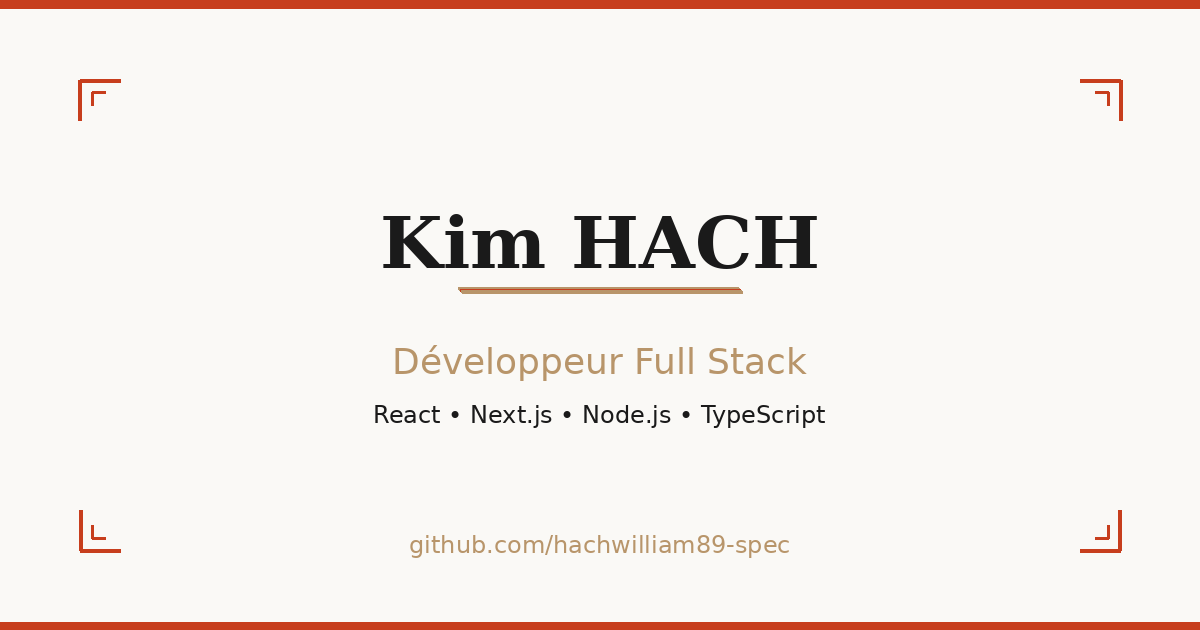
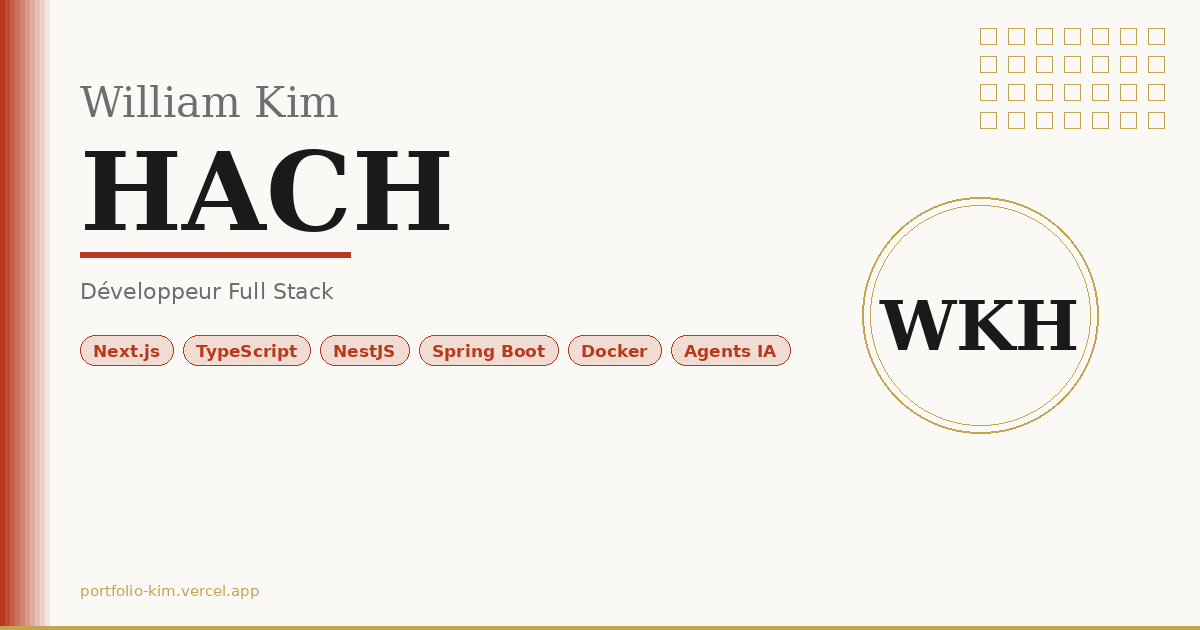
amelioration ui/ux

diff --git a/components/Hero.tsx b/components/Hero.tsx
@@ -1,6 +1,6 @@
 'use client';
 
-import { motion, Variants } from 'framer-motion';
+import { motion, Variants, useReducedMotion } from 'framer-motion';
 import { SiReact, SiNextdotjs, SiNodedotjs, SiTypescript, SiSpring, SiDocker } from 'react-icons/si';
 import { HiArrowDown } from 'react-icons/hi';
 import { useLanguage, fr, en } from '@/lib/i18n';
@@ -8,6 +8,7 @@ import { useLanguage, fr, en } from '@/lib/i18n';
 export default function Hero() {
     const { lang } = useLanguage();
     const t = lang === 'fr' ? fr : en;
+    const reduce = useReducedMotion();
 
     const scrollToProjects = () => {
         document.getElementById('projects')?.scrollIntoView({ behavior: 'smooth' });
@@ -133,16 +134,16 @@ export default function Hero() {
 
             {/* CONTENU PRINCIPAL */}
             <motion.div
-                initial={{ opacity: 0, y: 40 }}
+                initial={reduce ? false : { opacity: 0, y: 40 }}
                 animate={{ opacity: 1, y: 0 }}
-                transition={{ duration: 0.8, ease: 'easeOut', delay: 0.5 }}
+                transition={{ duration: 0.6, ease: 'easeOut', delay: 0.2 }}
                 className="relative z-10 text-center space-y-8 max-w-4xl"
             >
                 {/* Badge status */}
                 <motion.div
-                    initial={{ opacity: 0, scale: 0.95 }}
+                    initial={reduce ? false : { opacity: 0, scale: 0.95 }}
                     animate={{ opacity: 1, scale: 1 }}
-                    transition={{ duration: 0.6, delay: 1 }}
+                    transition={{ duration: 0.5, delay: 0.3 }}
                     className="inline-flex items-center gap-2 px-4 py-2 bg-vermillon/10 border border-vermillon/30 rounded-full"
                 >
                     <span className="relative flex h-2 w-2">
@@ -154,37 +155,50 @@ export default function Hero() {
                     </span>
                 </motion.div>
 
-                {/* Nom */}
+                {/* Nom — hiérarchie : "William Kim" petit / "HACH" grand */}
                 <motion.div
-                    initial={{ opacity: 0, y: 20 }}
+                    initial={reduce ? false : { opacity: 0, y: 20 }}
                     animate={{ opacity: 1, y: 0 }}
-                    transition={{ duration: 0.8, delay: 1.5 }}
-                    className="space-y-4"
+                    transition={{ duration: 0.6, delay: 0.5 }}
+                    className="space-y-1"
                 >
-                    <h1 className="font-display text-6xl md:text-8xl text-ink leading-none tracking-tight">
-                        {'William Kim HACH'.split('').map((char, i) => (
-                            <motion.span
-                                key={i}
-                                initial={{ opacity: 0, y: 30 }}
-                                animate={{ opacity: 1, y: 0 }}
-                                transition={{
-                                    duration: 0.4,
-                                    delay: 1.5 + i * 0.08,
-                                    ease: [0.25, 0.46, 0.45, 0.94]
-                                }}
-                                className="inline-block"
-                            >
-                                {char === ' ' ? '\u00A0' : char}
-                            </motion.span>
-                        ))}
+                    <h1 className="leading-none">
+                        {/* Prénoms */}
+                        <div className="font-display text-2xl md:text-4xl text-ink/50 font-normal tracking-[0.15em] mb-1">
+                            {reduce ? 'William Kim' : 'William Kim'.split('').map((char, i) => (
+                                <motion.span
+                                    key={i}
+                                    initial={{ opacity: 0, y: 20 }}
+                                    animate={{ opacity: 1, y: 0 }}
+                                    transition={{ duration: 0.3, delay: 0.6 + i * 0.04, ease: [0.25, 0.46, 0.45, 0.94] }}
+                                    className="inline-block"
+                                >
+                                    {char === ' ' ? ' ' : char}
+                                </motion.span>
+                            ))}
+                        </div>
+                        {/* Nom de famille */}
+                        <div className="font-display text-7xl md:text-9xl text-ink font-bold leading-none tracking-tight">
+                            {reduce ? 'HACH' : 'HACH'.split('').map((char, i) => (
+                                <motion.span
+                                    key={i}
+                                    initial={{ opacity: 0, y: 30 }}
+                                    animate={{ opacity: 1, y: 0 }}
+                                    transition={{ duration: 0.4, delay: 1.1 + i * 0.06, ease: [0.25, 0.46, 0.45, 0.94] }}
+                                    className="inline-block"
+                                >
+                                    {char}
+                                </motion.span>
+                            ))}
+                        </div>
                     </h1>
 
-                    <div className="relative inline-block">
+                    <div className="relative inline-block pt-2">
                         <motion.p
                             className="font-chinese text-3xl md:text-4xl text-ink/70 tracking-[0.2em]"
-                            initial={{ opacity: 0, scale: 0.9 }}
+                            initial={reduce ? false : { opacity: 0, scale: 0.9 }}
                             animate={{ opacity: 1, scale: 1 }}
-                            transition={{ duration: 0.8, delay: 2.5 }}
+                            transition={{ duration: 0.6, delay: 1.5 }}
                         >
                             金恩
                         </motion.p>
@@ -202,8 +216,8 @@ export default function Hero() {
                                 initial={{ pathLength: 0, opacity: 0 }}
                                 animate={{ pathLength: 1, opacity: 0.7 }}
                                 transition={{
-                                    pathLength: { duration: 0.8, ease: 'easeOut', delay: 3 },
-                                    opacity: { duration: 0.3, delay: 3 }
+                                    pathLength: { duration: 0.7, ease: 'easeOut', delay: reduce ? 0 : 1.8 },
+                                    opacity: { duration: 0.3, delay: reduce ? 0 : 1.8 }
                                 }}
                             />
                         </svg>
@@ -212,9 +226,9 @@ export default function Hero() {
 
                 {/* Description */}
                 <motion.p
-                    initial={{ opacity: 0, y: 20 }}
+                    initial={reduce ? false : { opacity: 0, y: 20 }}
                     animate={{ opacity: 1, y: 0 }}
-                    transition={{ duration: 0.8, delay: 3.2 }}
+                    transition={{ duration: 0.6, delay: 1.8 }}
                     className="text-ink/70 max-w-2xl mx-auto text-lg md:text-xl leading-relaxed"
                     dangerouslySetInnerHTML={{
                         __html: t.hero.subtitle.replace(
@@ -226,12 +240,11 @@ export default function Hero() {
 
                 {/* Objectif */}
                 <motion.div
-                    initial={{ opacity: 0, y: 10 }}
+                    initial={reduce ? false : { opacity: 0, y: 10 }}
                     animate={{ opacity: 1, y: 0 }}
-                    transition={{ duration: 0.8, delay: 3.4 }}
+                    transition={{ duration: 0.6, delay: 2.0 }}
                     className="inline-flex items-center gap-2 px-5 py-2.5 bg-vermillon/10 border border-vermillon/30 rounded-full"
                 >
-
                     <span className="text-sm font-semibold text-vermillon tracking-wide">
                         {t.hero.cta}
                     </span>
@@ -239,9 +252,9 @@ export default function Hero() {
 
                 {/* Projets mentionnés */}
                 <motion.p
-                    initial={{ opacity: 0 }}
+                    initial={reduce ? false : { opacity: 0 }}
                     animate={{ opacity: 1 }}
-                    transition={{ duration: 0.8, delay: 3.6 }}
+                    transition={{ duration: 0.6, delay: 2.2 }}
                     className="text-sm text-ink/50 tracking-wide"
                 >
                     KCD Formes • RecycleDashboard • Miyazaki Garden
@@ -249,9 +262,9 @@ export default function Hero() {
 
                 {/* Tech badges */}
                 <motion.div
-                    initial={{ opacity: 0 }}
+                    initial={reduce ? false : { opacity: 0 }}
                     animate={{ opacity: 1 }}
-                    transition={{ duration: 1, delay: 3.8 }}
+                    transition={{ duration: 0.6, delay: 2.3 }}
                     className="flex flex-wrap gap-3 justify-center pt-6"
                 >
                     {[
@@ -266,9 +279,9 @@ export default function Hero() {
                         return (
                             <motion.span
                                 key={tech.name}
-                                initial={{ opacity: 0, y: 10 }}
+                                initial={reduce ? false : { opacity: 0, y: 10 }}
                                 animate={{ opacity: 1, y: 0 }}
-                                transition={{ duration: 0.4, delay: 3.9 + i * 0.1 }}
+                                transition={{ duration: 0.3, delay: 2.4 + i * 0.08 }}
                                 className="group px-4 py-2 bg-ink/5 hover:bg-gold/10 border border-ink/10 hover:border-gold/40 rounded-full text-sm text-ink/70 hover:text-ink transition-all duration-300 flex items-center gap-2"
                             >
                                 <Icon className="text-base group-hover:text-vermillon transition-colors" />
@@ -282,15 +295,15 @@ export default function Hero() {
             {/* Bouton scroll */}
             <motion.button
                 onClick={scrollToProjects}
-                initial={{ opacity: 0, y: -20 }}
+                initial={reduce ? false : { opacity: 0, y: -20 }}
                 animate={{ opacity: 1, y: 0 }}
-                transition={{ duration: 0.8, delay: 4.5 }}
+                transition={{ duration: 0.6, delay: 2.8 }}
                 className="absolute bottom-8 left-1/2 -translate-x-1/2 flex flex-col items-center gap-2 text-ink/40 hover:text-vermillon transition-colors duration-300 group cursor-pointer z-10"
                 aria-label="Défiler vers les projets"
             >
                 <span className="text-xs uppercase tracking-wider font-medium">{t.hero.discover}</span>
                 <motion.div
-                    animate={{ y: [0, 8, 0] }}
+                    animate={reduce ? {} : { y: [0, 8, 0] }}
                     transition={{ duration: 1.5, repeat: Infinity, ease: 'easeInOut' }}
                 >
                     <HiArrowDown className="w-6 h-6" />

diff --git a/components/Projects.tsx b/components/Projects.tsx
@@ -76,12 +76,12 @@ const projects: Project[] = [
         tech: ['Next.js', 'TypeScript', 'PostgreSQL', 'Docker', 'Drizzle ORM', 'OpenAI', 'Anthropic', 'Zod', 'n8n'],
         image: '/images/xip-home.png',
         screenshots: [
-            { url: '/images/xip-home.png', title: 'Page d\'accueil', description: 'Site vitrine public de XIP Telecom, plateforme B2B de conseil et courtage télécom. Navigation vers les sections Solutions, Missions d\'audit, Recrutement BDI et l\'extranet via le bouton Login. Développé en Next.js avec design sobre et professionnel.' },
-            { url: '/images/xip-prospect.png', title: 'Extranet BDI — Création de prospect', description: 'Interface de l\'extranet réservé aux Business Developers. Formulaire de qualification d\'un nouveau prospect : société, contact principal, email, téléphone, code postal, besoin télécom libre et statut (Qualifié/Non qualifié). À la soumission, le prospect est créé en base via Drizzle ORM et synchronisé en fire-and-forget vers Odoo CRM via XML-RPC.' },
-            { url: '/images/xip-audit.png', title: 'Questionnaire d\'audit télécom', description: 'Interface de saisie d\'un audit structuré en 9 étapes : Identification, Origine et objectifs, Infrastructure télécom, Téléphonie fixe, Téléphonie mobile, Internet et réseaux, WiFi/VPN/Sécurité, Messagerie et IT, Synthèse et actions. Barre de progression en temps réel (ici 100% — 17/42 questions renseignées). Validation de l\'audit et génération du rapport PDF déclenchées depuis ce récapitulatif.' },
-            { url: '/images/xip-rapport.png', title: 'Rapport d\'audit — Récapitulatif', description: 'Page de récapitulatif avant génération du PDF : informations client (société, contact, BDI affecté), statut de l\'audit, date et sommaire des 9 étapes. Le bouton "Générer / Télécharger le PDF" déclenche le moteur React PDF côté serveur et stocke le fichier sur Nextcloud via WebDAV, puis l\'attache automatiquement à l\'opportunité Odoo.' },
-            { url: '/images/xip-n8n.png', title: 'Orchestration n8n — Lead entrant', description: 'Workflow n8n publié "XIP – lead entrant – Orchestration" déclenché par webhook POST à chaque nouveau lead entrant. Pipeline en 4 nœuds : réception webhook → email interne de notification → email d\'accusé de réception au prospect → réponse webhook. Exécuté en 143ms en production, avec historique des exécutions (succès/erreurs) visible en temps réel.' },
-            { url: '/images/xip-odoo.png', title: 'Synchronisation Odoo CRM', description: 'Opportunité synchronisée dans le pipeline Odoo CRM via XML-RPC en fire-and-forget. Champs personnalisés XIP injectés : Xip App Lead (UUID), Xip App Audit et Xip Audit Status ("Audit complete"). Deux rapports PDF d\'audit attachés automatiquement à l\'opportunité lors de la synchronisation, visibles dans la section Files.' },
+            { url: '/images/xip-home.png', title: 'Page d\'accueil', description: 'Site vitrine public de XIP Telecom, plateforme B2B de conseil et courtage télécom. Navigation vers les sections Solutions, Missions d\'audit, Recrutement BDI et l\'extranet via le bouton Login. Développé en Next.js avec design sobre et professionnel.', titleEn: 'Homepage', descriptionEn: 'Public landing page of XIP Telecom, a B2B telecom consulting and brokerage platform. Navigation to Solutions, Audit Missions, BDI Recruitment sections and the extranet via the Login button. Built with Next.js.' },
+            { url: '/images/xip-prospect.png', title: 'Extranet BDI — Création de prospect', description: 'Interface de l\'extranet réservé aux Business Developers. Formulaire de qualification d\'un nouveau prospect : société, contact principal, email, téléphone, code postal, besoin télécom libre et statut (Qualifié/Non qualifié). À la soumission, le prospect est créé en base via Drizzle ORM et synchronisé en fire-and-forget vers Odoo CRM via XML-RPC.', titleEn: 'BDI Extranet — Prospect Creation', descriptionEn: 'Extranet interface for Business Developers. Prospect qualification form: company, main contact, email, phone, postal code, free-text telecom need and status (Qualified/Not qualified). On submit, the prospect is persisted via Drizzle ORM and synced to Odoo CRM via XML-RPC in a fire-and-forget pattern.' },
+            { url: '/images/xip-audit.png', title: 'Questionnaire d\'audit télécom', description: 'Interface de saisie d\'un audit structuré en 9 étapes : Identification, Origine et objectifs, Infrastructure télécom, Téléphonie fixe, Téléphonie mobile, Internet et réseaux, WiFi/VPN/Sécurité, Messagerie et IT, Synthèse et actions. Barre de progression en temps réel (ici 100% — 17/42 questions renseignées). Validation de l\'audit et génération du rapport PDF déclenchées depuis ce récapitulatif.', titleEn: 'Telecom Audit Questionnaire', descriptionEn: '9-step structured audit form: Identification, Origin & objectives, Telecom infrastructure, Fixed telephony, Mobile telephony, Internet & networks, WiFi/VPN/Security, Messaging & IT, Summary & actions. Real-time progress bar (here 100% — 17/42 questions filled). Audit validation and PDF report generation triggered from this summary.' },
+            { url: '/images/xip-rapport.png', title: 'Rapport d\'audit — Récapitulatif', description: 'Page de récapitulatif avant génération du PDF : informations client (société, contact, BDI affecté), statut de l\'audit, date et sommaire des 9 étapes. Le bouton "Générer / Télécharger le PDF" déclenche le moteur React PDF côté serveur et stocke le fichier sur Nextcloud via WebDAV, puis l\'attache automatiquement à l\'opportunité Odoo.', titleEn: 'Audit Report — Summary', descriptionEn: 'Pre-generation summary page: client info (company, contact, assigned BDI), audit status, date and 9-step outline. The "Generate / Download PDF" button triggers the React PDF engine server-side, stores the file on Nextcloud via WebDAV, and automatically attaches it to the Odoo opportunity.' },
+            { url: '/images/xip-n8n.png', title: 'Orchestration n8n — Lead entrant', description: 'Workflow n8n publié "XIP – lead entrant – Orchestration" déclenché par webhook POST à chaque nouveau lead entrant. Pipeline en 4 nœuds : réception webhook → email interne de notification → email d\'accusé de réception au prospect → réponse webhook. Exécuté en 143ms en production, avec historique des exécutions (succès/erreurs) visible en temps réel.', titleEn: 'n8n Orchestration — Inbound Lead', descriptionEn: 'Published n8n workflow "XIP – inbound lead – Orchestration" triggered by a POST webhook on every new inbound lead. 4-node pipeline: webhook receiver → internal notification email → prospect acknowledgment email → webhook response. Executed in 143ms in production, with real-time execution history (success/errors).' },
+            { url: '/images/xip-odoo.png', title: 'Synchronisation Odoo CRM', description: 'Opportunité synchronisée dans le pipeline Odoo CRM via XML-RPC en fire-and-forget. Champs personnalisés XIP injectés : Xip App Lead (UUID), Xip App Audit et Xip Audit Status ("Audit complete"). Deux rapports PDF d\'audit attachés automatiquement à l\'opportunité lors de la synchronisation, visibles dans la section Files.', titleEn: 'Odoo CRM Synchronization', descriptionEn: 'Opportunity synced into the Odoo CRM pipeline via XML-RPC in a fire-and-forget pattern. Custom XIP fields injected: Xip App Lead (UUID), Xip App Audit and Xip Audit Status ("Audit complete"). Two audit PDF reports automatically attached to the opportunity on sync, visible in the Files section.' },
         ],
     },
     {

diff --git a/components/ProjectModal.tsx b/components/ProjectModal.tsx
@@ -216,14 +216,14 @@ export default function ProjectModal({ project, onClose }: ProjectModalProps) {
                                         {/* Titre + description du screenshot courant */}
                                         <div className="mb-2">
                                             <span className="text-xs font-bold text-ink mr-2">
-                                                {currentScreenshot.title}
+                                                {lang === 'en' && currentScreenshot.titleEn ? currentScreenshot.titleEn : currentScreenshot.title}
                                             </span>
                                             <span className="text-xs text-ink/50">
                                                 {currentIndex + 1}/{project.screenshots.length}
                                             </span>
                                         </div>
                                         <p className="text-xs text-ink/60 mb-3 leading-relaxed">
-                                            {currentScreenshot.description}
+                                            {lang === 'en' && currentScreenshot.descriptionEn ? currentScreenshot.descriptionEn : currentScreenshot.description}
                                         </p>
 
                                         {/* Thumbnails */}
